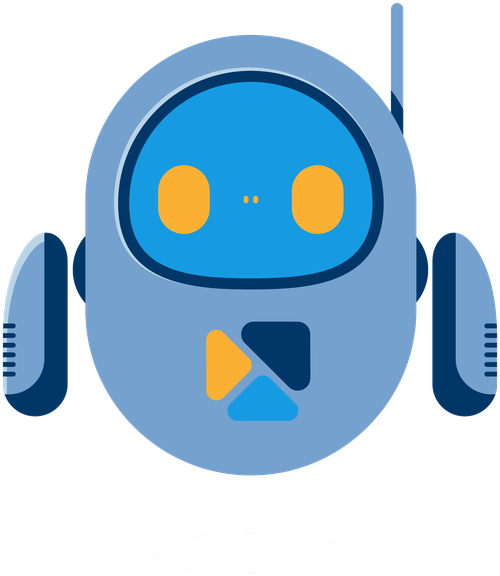
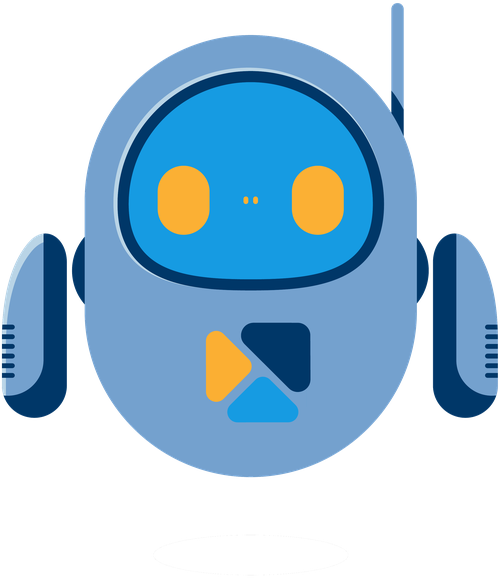
Fix Sim crop artifact from neighbor bleed, add mirrored 4th pose

diff --git a/public/index.html b/public/index.html
@@ -75,13 +75,14 @@ html { height: 100%; }
 @keyframes kh-spin { to { transform: rotate(360deg); } }
 .kh-spinner { display:inline-block; width:18px; height:18px; border:2.5px solid #e2e8f0; border-top-color:var(--brand-navy); border-radius:50%; animation:kh-spin .7s linear infinite; vertical-align:middle; }
 @keyframes lab-magnify-scan { 0%,100% { transform:translateX(-14px) rotate(-8deg); } 50% { transform:translateX(14px) rotate(8deg); } }
-@keyframes sim-cycle-fade { 0%, 22% { opacity:1; } 33%, 100% { opacity:0; } }
+@keyframes sim-cycle-fade { 0%, 17% { opacity:1; } 25%, 100% { opacity:0; } }
 @keyframes sim-bob { 0%, 100% { transform:translateY(0) rotate(0deg); } 50% { transform:translateY(-6px) rotate(-2deg); } }
 #kh-bubble { animation:sim-bob 2.4s ease-in-out infinite; }
-.sim-cycle-img { position:absolute; inset:0; width:100%; height:100%; object-fit:contain; filter:drop-shadow(0 6px 14px rgba(0,0,0,.3)); opacity:0; animation:sim-cycle-fade 9s ease-in-out infinite; }
+.sim-cycle-img { position:absolute; inset:0; width:100%; height:100%; object-fit:contain; filter:drop-shadow(0 6px 14px rgba(0,0,0,.3)); opacity:0; animation:sim-cycle-fade 8s ease-in-out infinite; }
 .sim-cycle-img.sim-cycle-1 { animation-delay:0s; }
-.sim-cycle-img.sim-cycle-2 { animation-delay:3s; }
-.sim-cycle-img.sim-cycle-3 { animation-delay:6s; }
+.sim-cycle-img.sim-cycle-2 { animation-delay:2s; }
+.sim-cycle-img.sim-cycle-3 { animation-delay:4s; }
+.sim-cycle-img.sim-cycle-4 { animation-delay:6s; }
 .lab-magnify-wrap { display:flex; flex-direction:column; align-items:center; gap:14px; padding:26px 0; }
 .lab-magnify-wrap svg { animation:lab-magnify-scan 1.1s ease-in-out infinite; }
 .sidebar a { display: block; color: rgba(255,255,255,.7); text-decoration: none; padding: 9px 20px; font-size: 13px; border-left: 3px solid transparent; }
@@ -5254,9 +5255,10 @@ Consolidating debts will increase the loan to value which can impact future deal
 
 <!-- ── KnowledgeHUB Help widget (rule-based, not AI) ─────────────────────── -->
 <div id="kh-bubble" onclick="khToggle()" title="Sim" style="position:fixed;bottom:20px;right:20px;width:78px;height:78px;cursor:pointer;z-index:4000;">
-  <img src="/static/sim-idle.png"      alt="Sim" class="sim-cycle-img sim-cycle-1">
-  <img src="/static/sim-listening.png" alt=""    class="sim-cycle-img sim-cycle-2">
-  <img src="/static/sim-waving.png"    alt=""    class="sim-cycle-img sim-cycle-3">
+  <img src="/static/sim-idle.png"            alt="Sim" class="sim-cycle-img sim-cycle-1">
+  <img src="/static/sim-listening.png"       alt=""    class="sim-cycle-img sim-cycle-2">
+  <img src="/static/sim-waving.png"          alt=""    class="sim-cycle-img sim-cycle-3">
+  <img src="/static/sim-listening-right.png" alt=""    class="sim-cycle-img sim-cycle-4">
 </div>
 <div id="kh-panel" style="display:none;flex-direction:column;position:fixed;bottom:88px;right:24px;width:340px;max-width:92vw;max-height:70vh;background:#fff;border-radius:14px;box-shadow:0 16px 48px rgba(0,0,0,.28);z-index:4001;overflow:hidden;">
   <div style="background:var(--brand-navy);color:#fff;padding:14px 16px;display:flex;align-items:center;justify-content:space-between;flex-shrink:0;">
